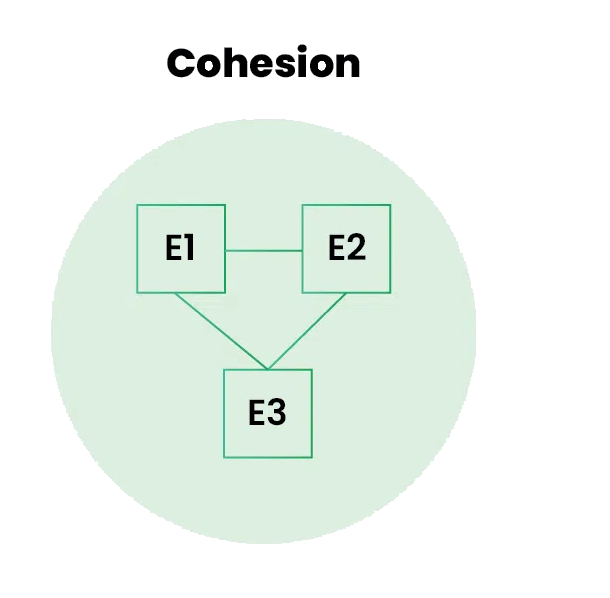
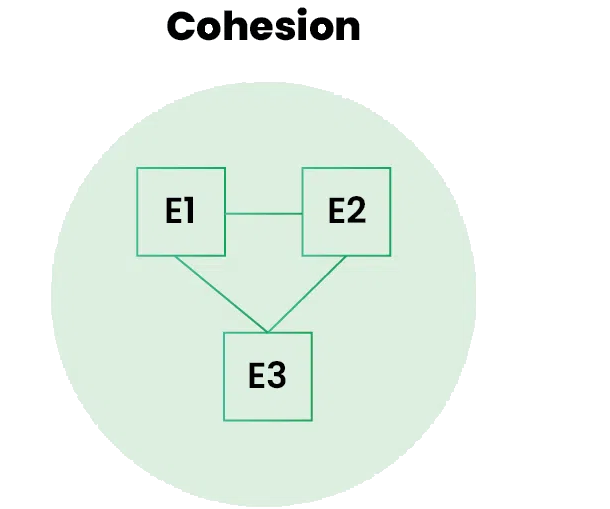
Updates from Overleaf

diff --git a/chapters/04-theory.tex b/chapters/04-theory.tex
@@ -224,6 +224,8 @@ Wireframes are essential tools in the early stages of interface design. They act
 
 Another essential element in design of digital solutions is accessibility. Universal design ensures that products are usable by as many people as possible, regardless of disabilities \cite{uutilsynet:universellutforming}. This involves considering users with visual, auditory, motor, or cognitive impairments from the beginning of the design process. By planning for accessibility early, designers not only meet legal and ethical standards, but also improve the overall user experience for everyone. Inclusive design benefits a wider audience and reduces the need for costly adaptations later in development. \\
 
+\newpage
+
 To support accessibility in practice, the \gls{wcag} offer a detailed framework of recommendations. Developed by the \gls{w3c}, \gls{wcag} outlines how to make digital content more perceivable, operable, understandable, and robust \cite{levelaccess:wcag}. These guidelines are used globally to ensure web services are accessible to users with disabilities. Applying these principles from the wireframe stage onward helps integrate accessibility throughout the design process.
 
 \section{Project Management}
@@ -236,6 +238,8 @@ To support accessibility in practice, the \gls{wcag} offer a detailed framework 
 \gls{scrum} uses three main artifacts to organize and manage the work process. The \textit{product backlog} is a list of all features, enhancements, and fixes planned for the product. The \textit{sprint backlog} contains the specific tasks selected for implementation during the current sprint. Finally, the \textit{increment} is the completed, usable product delivered at the end of the sprint. Together, these artifacts promote transparency, align team efforts, and ensure consistent progress throughout the development cycle \cite{scrumguides:scrum}. \\
 
 \gls{scrum} has three primary roles. The \textbf{product owner} is responsible for deciding what the team should work on and in what order. The \textbf{development team} builds the product and takes ownership of organizing and completing the work. The \textbf{\gls{scrum} master} facilitates the process by supporting the team, removing obstacles, and ensuring that \gls{scrum} practices are followed effectively.\\
+
+\newpage
 
 \section{Software Engineering Principles}
 \label{sec:software-engineering-principles}
@@ -260,8 +264,8 @@ Modern version control systems often use pull requests to facilitate code review
 
 \begin{figure}[h!]
     \centering
-    \subfloat{{\includegraphics[width=0.5\linewidth]{figures/theory/cohesion.png}}}
-    \subfloat{{\includegraphics[width=0.5\linewidth]{figures/theory/coupling.png}}}
+    \subfloat{{\includegraphics[width=0.4\linewidth]{figures/theory/cohesion.png}}}
+    \subfloat{{\includegraphics[width=0.4\linewidth]{figures/theory/coupling.png}}}
 
     \caption[Cohesion and coupling]{Cohesion shows internal module connectivity while coupling illustrates interdependence between modules \cite{geeksforgeeks:c&c}.}
     \label{fig:cohesion-coupling}
